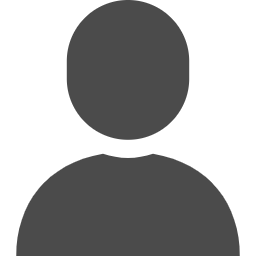
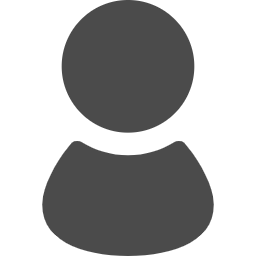
jsファイル整理／プロフィール画像の編集機能を追加

diff --git a/resources/sass/admin.scss b/resources/sass/admin.scss
@@ -172,14 +172,22 @@ h4 {
 
     .image-box {
         padding: 0 35px;
+        width: 280px;
+        height: 280px;
+        border: none;
 
         img {
-            // background-image: url('../../public/images/default_profile_icon.png');
-            // background-size: 280px 280px;
-            border-radius: 20px;
-            border: 10px double #d8c0b4;
+            background-image: url(/images/default_profile_icon.png);
+            background-size:283px 280px;
+            background-position: center;
+            background-size: contain;
+            background-color: rgba(153, 153, 153, 0.801);
             width: 280px;
-            height: 280px;
+            height: 283px;
+            margin-bottom: 0;
+            cursor: pointer;
+            border-radius: 20px;
+            border: 6px solid #d8c0b4;
         }
     }
 
@@ -280,11 +288,14 @@ h4 {
     margin-left: 40px;
 
     .image-box {
-        background-image: url(/images/lady_icon.png?2e0dc4e2d2be745f45a3a5310b00a9bf);
-        background-size:280px 280px;
+        background-image: url(/images/default_profile_icon.png);
+        background-size:285px 280px;
+        background-position: 50% 5%;
+        // background-size: contain;
         background-color: rgba(153, 153, 153, 0.801);
+        // background-repeat: no-repeat;
         width: 280px;
-        height: 280px;
+        height: 285px;
         margin-bottom: 0;
         cursor: pointer;
         border-radius: 20px;

diff --git a/public/js/admin.js b/public/js/admin.js
@@ -10979,10 +10979,10 @@ return jQuery;
 
 /***/ }),
 
-/***/ "./resources/js/hoge.js":
-/*!******************************!*\
-  !*** ./resources/js/hoge.js ***!
-  \******************************/
+/***/ "./resources/js/admin.js":
+/*!*******************************!*\
+  !*** ./resources/js/admin.js ***!
+  \*******************************/
 /*! no static exports found */
 /***/ (function(module, exports, __webpack_require__) {
 
@@ -11093,13 +11093,13 @@ $(function () {
 /***/ }),
 
 /***/ 1:
-/*!************************************!*\
-  !*** multi ./resources/js/hoge.js ***!
-  \************************************/
+/*!*************************************!*\
+  !*** multi ./resources/js/admin.js ***!
+  \*************************************/
 /*! no static exports found */
 /***/ (function(module, exports, __webpack_require__) {
 
-module.exports = __webpack_require__(/*! /Users/anir/task/task_04/hair_catalogs/resources/js/hoge.js */"./resources/js/hoge.js");
+module.exports = __webpack_require__(/*! /Users/anir/task/task_04/hair_catalogs/resources/js/admin.js */"./resources/js/admin.js");
 
 
 /***/ })

diff --git a/public/css/admin.css b/public/css/admin.css
@@ -168,13 +168,23 @@ h4 {
 
 .profile-box .image-box {
   padding: 0 35px;
+  width: 280px;
+  height: 280px;
+  border: none;
 }
 
 .profile-box .image-box img {
-  border-radius: 20px;
-  border: 10px double #d8c0b4;
+  background-image: url(/images/default_profile_icon.png);
+  background-size: 283px 280px;
+  background-position: center;
+  background-size: contain;
+  background-color: rgba(153, 153, 153, 0.801);
   width: 280px;
-  height: 280px;
+  height: 283px;
+  margin-bottom: 0;
+  cursor: pointer;
+  border-radius: 20px;
+  border: 6px solid #d8c0b4;
 }
 
 .profile-box .name-box {
@@ -273,11 +283,12 @@ h4 {
 }
 
 .profile-box1 .image-box {
-  background-image: url(/images/lady_icon.png?2e0dc4e2d2be745f45a3a5310b00a9bf);
-  background-size: 280px 280px;
+  background-image: url(/images/default_profile_icon.png);
+  background-size: 285px 280px;
+  background-position: 50% 5%;
   background-color: rgba(153, 153, 153, 0.801);
   width: 280px;
-  height: 280px;
+  height: 285px;
   margin-bottom: 0;
   cursor: pointer;
   border-radius: 20px;

diff --git a/public/js/front.js b/public/js/front.js
@@ -10979,9 +10979,9 @@ return jQuery;
 
 /***/ }),
 
-/***/ "./resources/js/index.js":
+/***/ "./resources/js/front.js":
 /*!*******************************!*\
-  !*** ./resources/js/index.js ***!
+  !*** ./resources/js/front.js ***!
   \*******************************/
 /*! no static exports found */
 /***/ (function(module, exports, __webpack_require__) {
@@ -11004,12 +11004,12 @@ return jQuery;
 
 /***/ 3:
 /*!*************************************!*\
-  !*** multi ./resources/js/index.js ***!
+  !*** multi ./resources/js/front.js ***!
   \*************************************/
 /*! no static exports found */
 /***/ (function(module, exports, __webpack_require__) {
 
-module.exports = __webpack_require__(/*! /Users/anir/task/task_04/hair_catalogs/resources/js/index.js */"./resources/js/index.js");
+module.exports = __webpack_require__(/*! /Users/anir/task/task_04/hair_catalogs/resources/js/front.js */"./resources/js/front.js");
 
 
 /***/ })

diff --git a/webpack.mix.js b/webpack.mix.js
@@ -12,9 +12,9 @@ const mix = require('laravel-mix');
  */
 
 mix.js('resources/js/app.js', 'public/js')
-    .js('resources/js/hoge.js', 'public/js')
+    .js('resources/js/admin.js', 'public/js')
     .js('resources/js/profile.js', 'public/js')
-    .js('resources/js/index.js', 'public/js')
+    .js('resources/js/front.js', 'public/js')
     .sass('resources/sass/app.scss', 'public/css')
     .sass('resources/sass/admin.scss', 'public/css')
     .sass('resources/sass/front.scss', 'public/css')

diff --git a/public/js/profile.js b/public/js/profile.js
@@ -11016,7 +11016,7 @@ $(function () {
     obj.value = "";
     var flag = document.getElementById("remove-flag");
     flag.value = "1";
-    $('.image-box').css('background-image', 'url(/images/lady_icon.png?2e0dc4e2d2be745f45a3a5310b00a9bf)');
+    $('.image-box').css('background-image', 'url(/images/default_profile_icon.png)');
   });
 });
 /* WEBPACK VAR INJECTION */}.call(this, __webpack_require__(/*! jquery */ "./node_modules/jquery/dist/jquery.js")))

diff --git a/resources/js/profile.js b/resources/js/profile.js
@@ -31,6 +31,6 @@ $(function(){
         var flag = document.getElementById("remove-flag");
         flag.value = "1";
 
-        $('.image-box').css('background-image', 'url(/images/lady_icon.png?2e0dc4e2d2be745f45a3a5310b00a9bf)');
+        $('.image-box').css('background-image', 'url(/images/default_profile_icon.png)');
     });
 });

diff --git a/resources/views/admin/profile/index.blade.php b/resources/views/admin/profile/index.blade.php
@@ -11,7 +11,11 @@
             {{-- プロフィール詳細 --}}
             <div class="col-md-12 profile-box row ">
                 <div class="col-md-4 image-box">
-                    <img id="img1" src="{{ asset('storage/image/' . $profile_form->image_path) }}">
+                    @if ($profile_form->image_path != null)
+                        <img src="{{ asset('storage/image/' . $profile_form->image_path) }}" alt="" onerror="this.src='/images/default_profile_icon.png'" />
+                    @else
+                        <img alt="">
+                    @endif
                 </div>
                 <div class="col-md-8">
                     <div class="col-md-4 name-box">

diff --git a/app/Http/Controllers/Admin/ProfileController.php b/app/Http/Controllers/Admin/ProfileController.php
@@ -37,7 +37,7 @@ class ProfileController extends Controller
         $profile = User::find($request->id);
         $profile_form = $request->all();
 
-        if ($request->remove == "1") {
+        if ($request->image == '' &&$request->remove == "1") {
             $profile_form['image'] = null;
             $profile_form['image_path'] = null;
         } elseif ($request->file('image')) {

diff --git a/resources/views/admin/catalog/create.blade.php b/resources/views/admin/catalog/create.blade.php
@@ -3,7 +3,7 @@
 @section('title', '新規投稿の作成')
 
 @section('content')
-<script src="{{ mix('js/hoge.js') }}"></script>
+<script src="{{ mix('js/admin.js') }}"></script>
     <div class="container">
         <div class="row">
             <div class="col-md-12 mx-auto">
